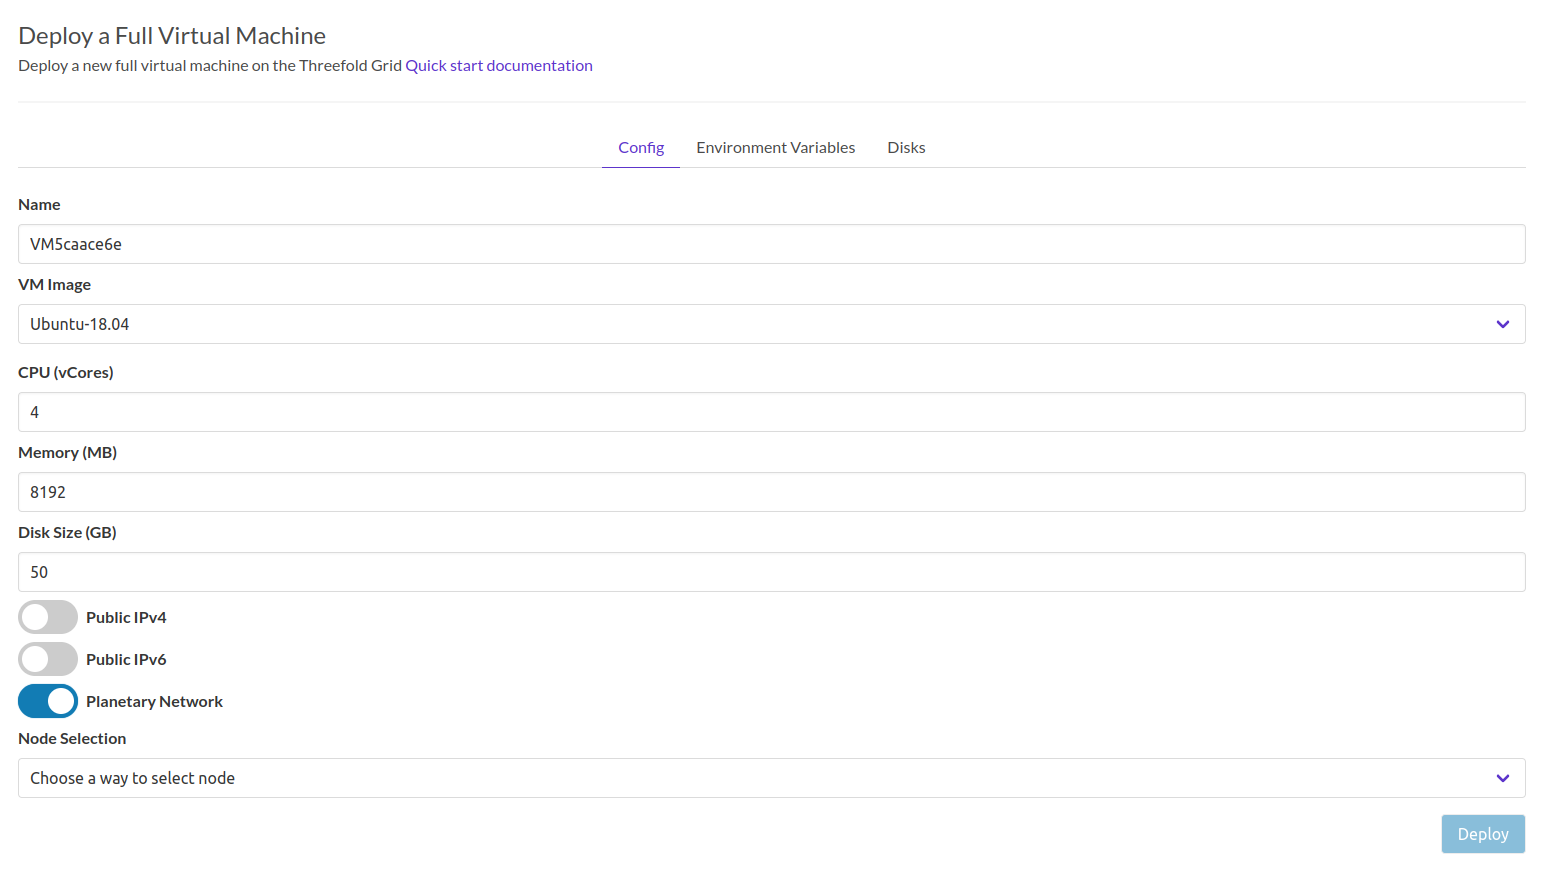
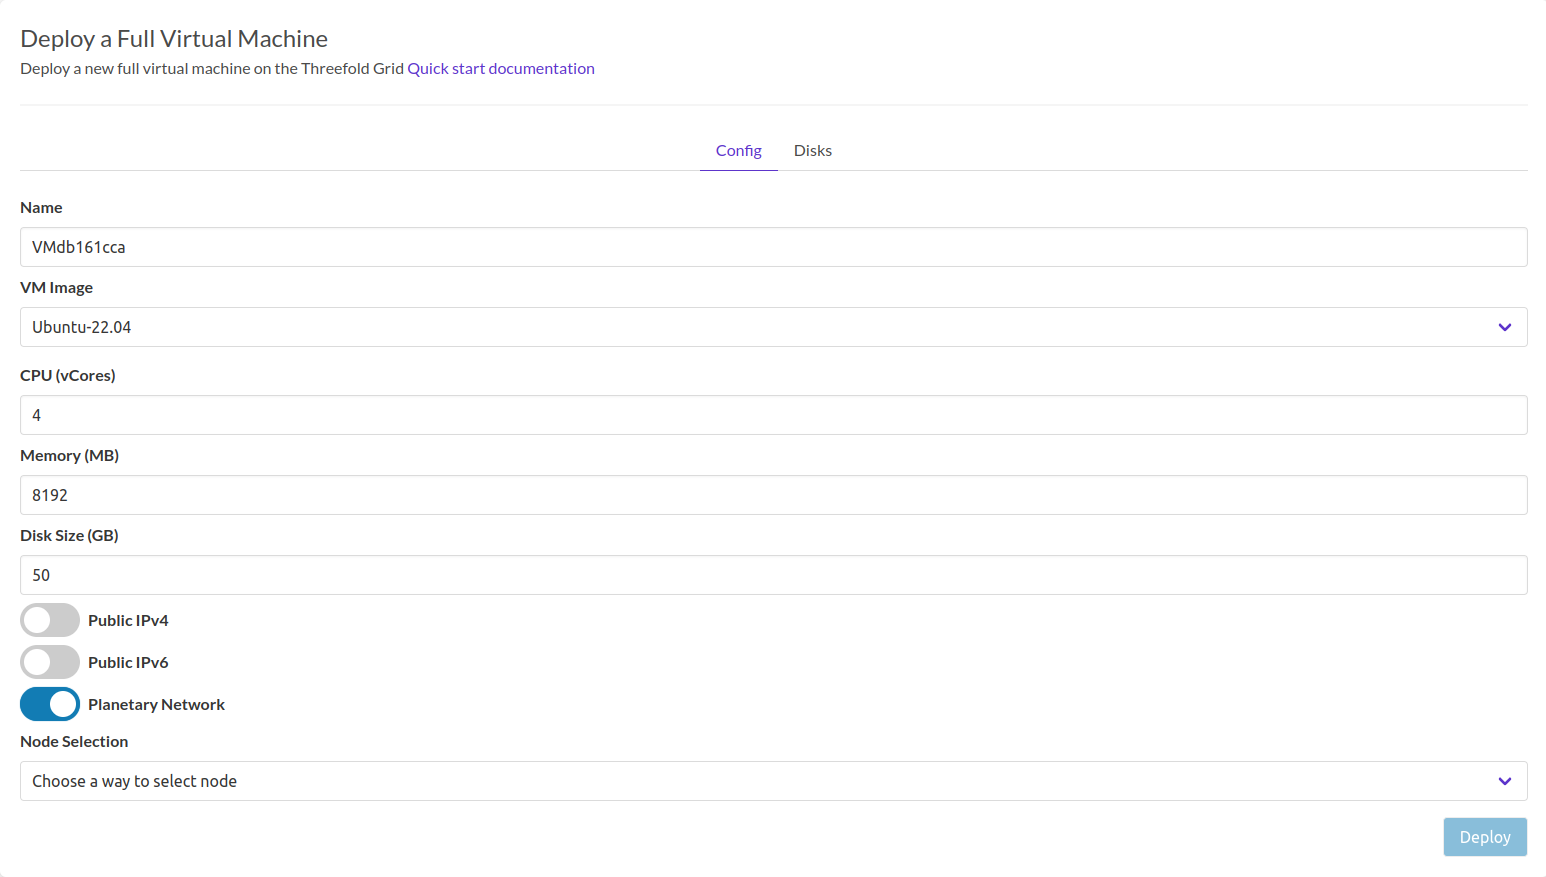
adding updated fullvm images

diff --git a/wiki/weblets/weblets_fullvm .md b/wiki/weblets/weblets_fullvm .md
@@ -18,12 +18,8 @@ Deploy a new full virtual machine on the Threefold Grid
 - Choose the node to deploy on which can be
 - Manual: where you specify the node id yourself
 - Automatic: Suggests nodes list based on search criteria e.g `country`, `farm`, capacity..
-  
-![Environment Variables tab](img/new_fullvm2.png)
-Clicking on enviornment allows you to define environment variables to pass to the full VM
-> Note the Public SSH key in the profile is automatically used as variable `SSH_KEY` passed to all Virtual Machines
 
-![Disks tab](img/new_fullvm3.png)
+![Disks tab](img/new_fullvm2.png)
 You can attach one or more disks to the Full Virtual Machine by clicking on the Disks tab and the plus `+` sign and specify the following parameters
 
 - Disk name
